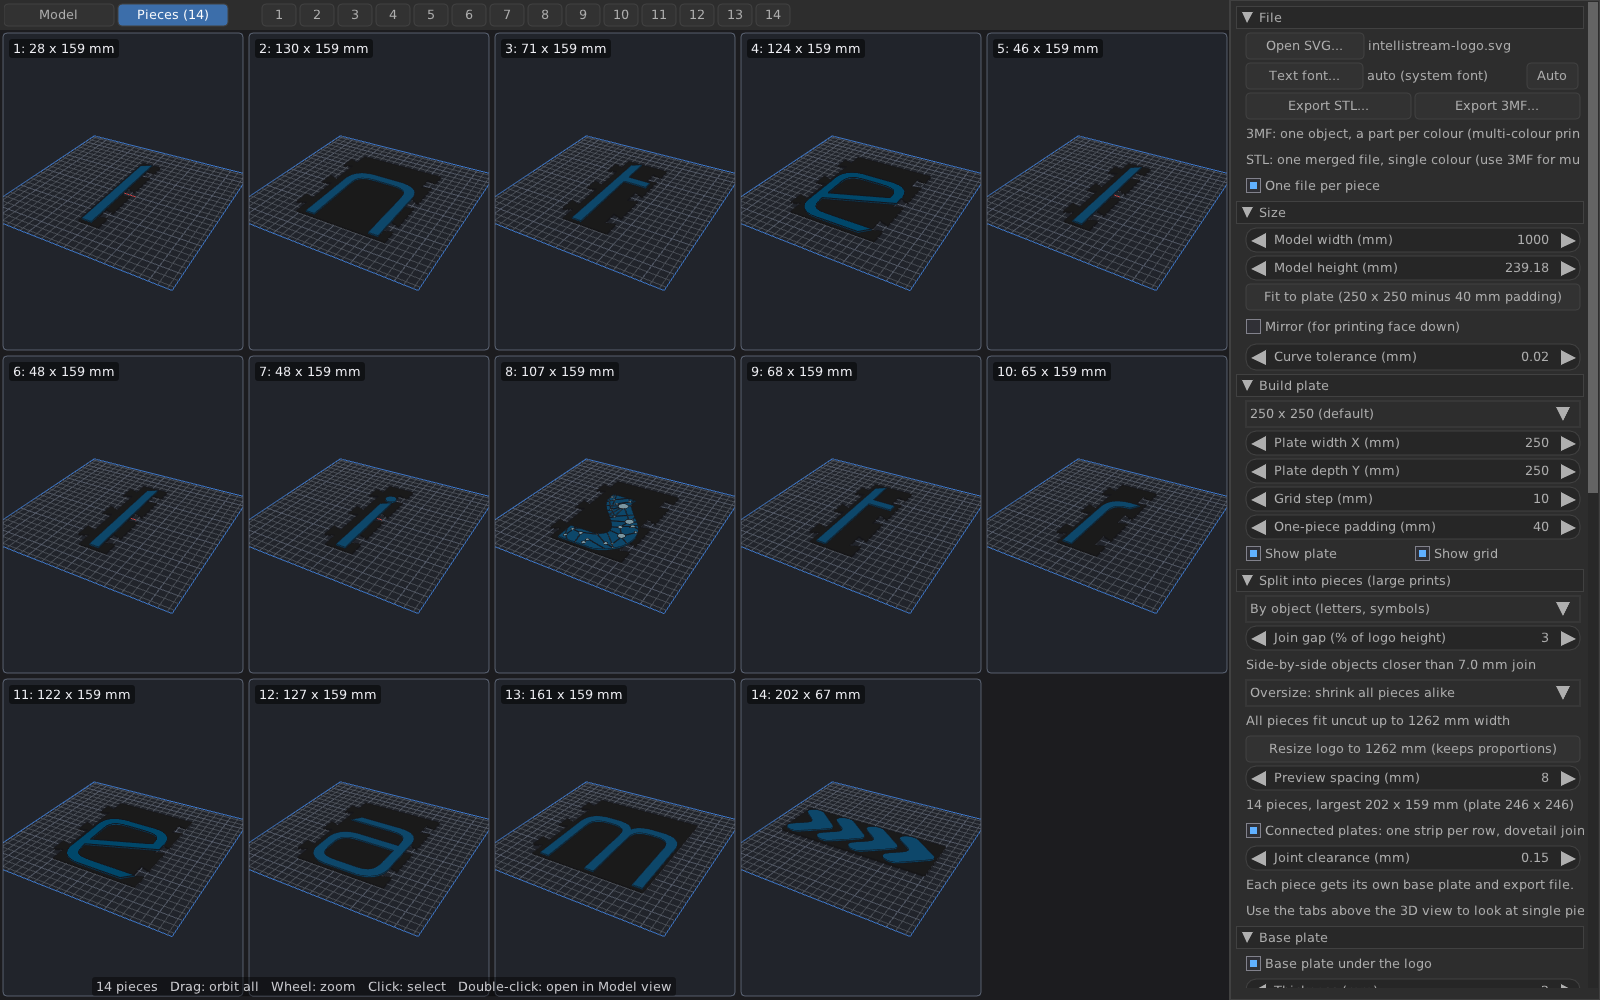
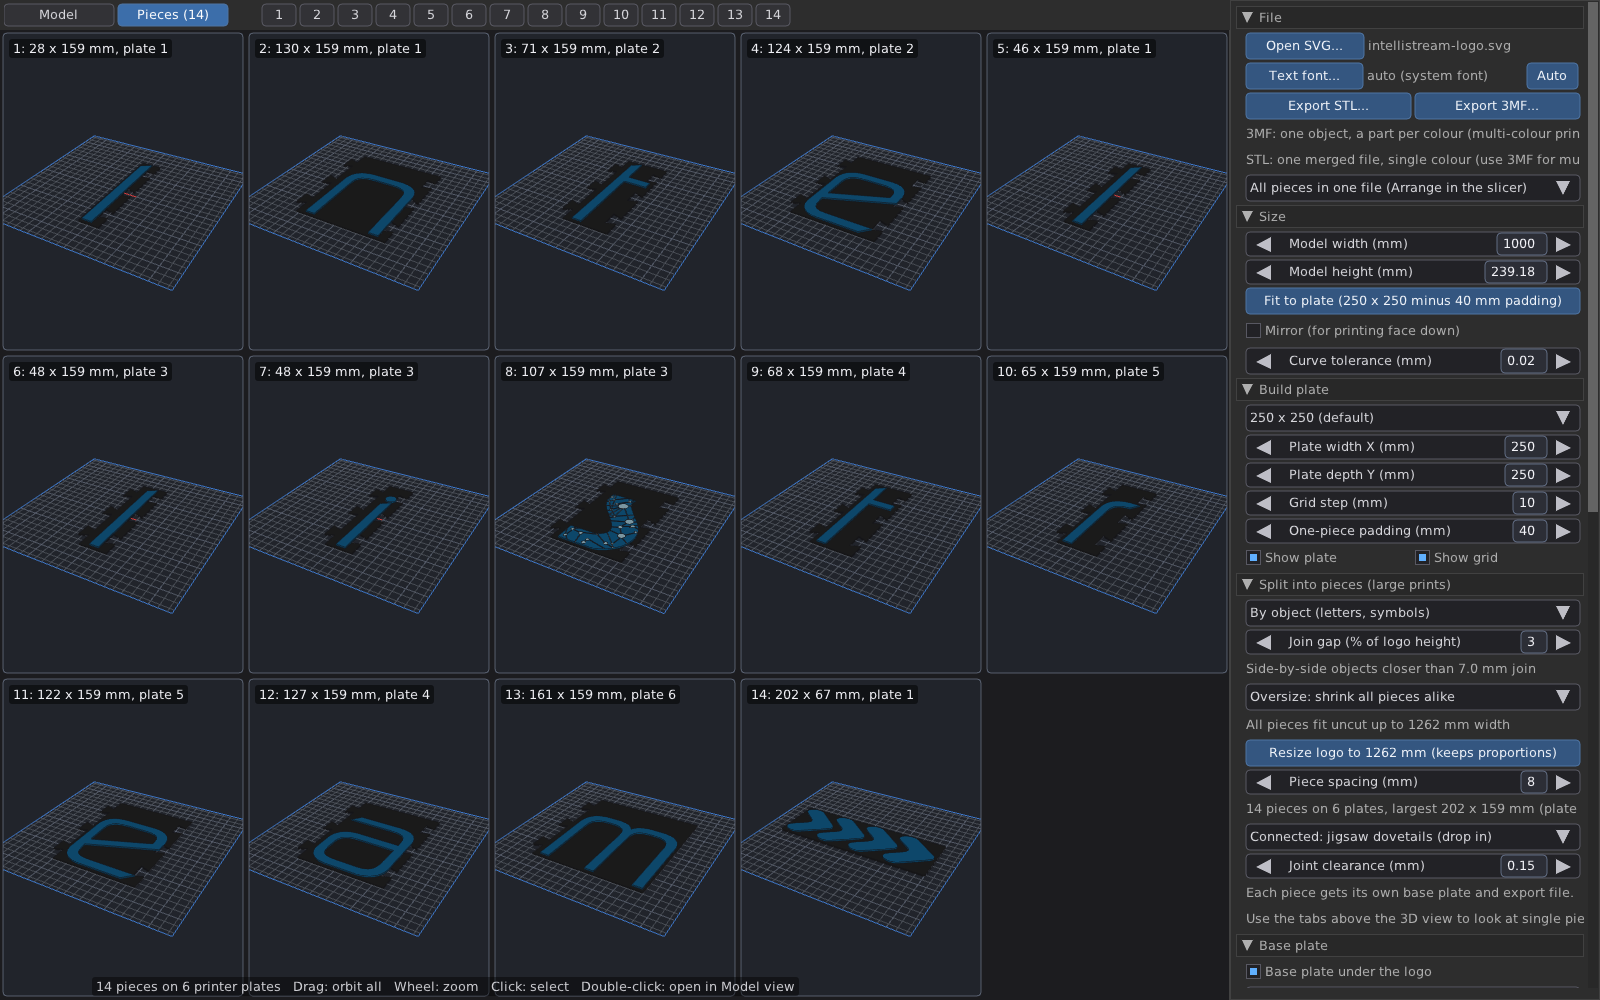
Rename the project to intellistream-svgto3dprint
The executable, CMake project/target, Makefile target, CI artifact
names, release archives, icon asset files, and every user-facing
string (--help banner, window title, 3MF Application metadata, STL
file header, README, test docstrings/output paths) now use the repo's
actual name instead of the old working title logo3dprint. Internal
CMake option names (LOGO3D_X86_FMA etc.) are left as-is since they are
not part of the product's visible identity.

Also refresh the two README screenshots against the current UI (the
new field/button styling, the Bottom camera preset, and the
all-pieces-in-one-file default).

diff --git a/src/gui.c b/src/gui.c
@@ -130,7 +130,7 @@ static void load_file(gui_t *g, const char *path)
         model_changed(g);
         camera_fit(&g->cam, &g->app->model);
         snprintf(g->path_buf, sizeof(g->path_buf), "%s", path);
-        snprintf(title, sizeof(title), "logo3dprint - %s", path);
+        snprintf(title, sizeof(title), "intellistream-svgto3dprint - %s", path);
         SDL_SetWindowTitle(g->win, title);
         if (d->n_text_skipped) set_status(g, "Loaded. %d <text> element(s) skipped: no usable font (choose one under File).", d->n_text_skipped);
         else if (g->app->model.colors_before_merge > g->app->model.nslots)
@@ -1618,7 +1618,7 @@ int gui_main(app_state *a)
     SDL_GL_SetAttribute(SDL_GL_MULTISAMPLESAMPLES, 4);
     {
         int ww = a->win_w > 0 ? a->win_w : 1280, wh = a->win_h > 0 ? a->win_h : 800;
-        g.win = SDL_CreateWindow("logo3dprint", ww, wh, SDL_WINDOW_OPENGL | SDL_WINDOW_RESIZABLE | SDL_WINDOW_HIGH_PIXEL_DENSITY);
+        g.win = SDL_CreateWindow("intellistream-svgto3dprint", ww, wh, SDL_WINDOW_OPENGL | SDL_WINDOW_RESIZABLE | SDL_WINDOW_HIGH_PIXEL_DENSITY);
     }
     if (g.win) g.gl = SDL_GL_CreateContext(g.win);
     if (!g.win || !g.gl) {
@@ -1626,7 +1626,7 @@ int gui_main(app_state *a)
         if (g.win) SDL_DestroyWindow(g.win);
         SDL_GL_SetAttribute(SDL_GL_MULTISAMPLEBUFFERS, 0);
         SDL_GL_SetAttribute(SDL_GL_MULTISAMPLESAMPLES, 0);
-        g.win = SDL_CreateWindow("logo3dprint", a->win_w > 0 ? a->win_w : 1280, a->win_h > 0 ? a->win_h : 800,
+        g.win = SDL_CreateWindow("intellistream-svgto3dprint", a->win_w > 0 ? a->win_w : 1280, a->win_h > 0 ? a->win_h : 800,
                                  SDL_WINDOW_OPENGL | SDL_WINDOW_RESIZABLE | SDL_WINDOW_HIGH_PIXEL_DENSITY);
         g.gl = g.win ? SDL_GL_CreateContext(g.win) : NULL;
         if (!g.win || !g.gl) {
@@ -1685,7 +1685,7 @@ int gui_main(app_state *a)
             g.tab = 1;
             g.last_nchunks = a->model.nchunks;
         }
-        snprintf(title, sizeof(title), "logo3dprint - %s", a->svg_path);
+        snprintf(title, sizeof(title), "intellistream-svgto3dprint - %s", a->svg_path);
         SDL_SetWindowTitle(g.win, title);
     } else if (a->last_error[0]) {
         set_status(&g, "Error: %s", a->last_error);

diff --git a/tools/mkicon.py b/tools/mkicon.py
@@ -1,5 +1,5 @@
 #!/usr/bin/env python3
-"""Regenerate src/icon_data.h from assets/logo3dprint.ico.
+"""Regenerate src/icon_data.h from assets/intellistream-svgto3dprint.ico.
 
 The window icon is compiled into the program (no image library, no file to
 find at run time) as a run-length encoded RGBA stream: records of
@@ -11,7 +11,7 @@ import os, sys
 from PIL import Image
 
 here = os.path.dirname(os.path.abspath(__file__))
-src = os.path.join(here, "..", "assets", "logo3dprint.ico")
+src = os.path.join(here, "..", "assets", "intellistream-svgto3dprint.ico")
 dst = os.path.join(here, "..", "src", "icon_data.h")
 
 im = Image.open(src)
@@ -29,7 +29,7 @@ for p in px:
         runs.append([1, p])
 
 with open(dst, "w") as f:
-    f.write("/* Generated by tools/mkicon.py from assets/logo3dprint.ico; do not edit.\n"
+    f.write("/* Generated by tools/mkicon.py from assets/intellistream-svgto3dprint.ico; do not edit.\n"
             " * Run-length encoded RGBA: [count, r, g, b, a] records, top row first. */\n")
     f.write(f"#define ICON_W {w}\n#define ICON_H {h}\n")
     f.write("static const unsigned char icon_rle[] = {\n")

diff --git a/src/export_3mf.c b/src/export_3mf.c
@@ -92,7 +92,7 @@ static int write_3mf(const export_object *objs, int nobjs, const char *path, cha
     sb_put(&model, "<?xml version=\"1.0\" encoding=\"UTF-8\"?>\n");
     sb_put(&model, "<model unit=\"millimeter\" xml:lang=\"en-US\" xmlns=\"http://schemas.microsoft.com/3dmanufacturing/core/2015/02\""
                    " xmlns:m=\"http://schemas.microsoft.com/3dmanufacturing/material/2015/02\">\n");
-    sb_put(&model, " <metadata name=\"Application\">logo3dprint</metadata>\n");
+    sb_put(&model, " <metadata name=\"Application\">intellistream-svgto3dprint</metadata>\n");
     sb_put(&model, " <metadata name=\"Title\">logo</metadata>\n");
     sb_put(&model, " <resources>\n");
     sb_put(&model, "  <basematerials id=\"1\">\n");

diff --git a/src/export_stl.c b/src/export_stl.c
@@ -104,7 +104,7 @@ static int write_stl_file(const char *path, const export_part *parts, int nparts
         return 0;
     }
     memset(header, 0, sizeof(header));
-    snprintf(header, sizeof(header), "logo3dprint binary STL");
+    snprintf(header, sizeof(header), "intellistream-svgto3dprint binary STL");
     fwrite(header, 1, 80, f);
     for (i = 0; i < nparts; i++) total += (unsigned)export_part_mesh(&parts[i])->nt;
     {

diff --git a/tests/check_stl.py b/tests/check_stl.py
@@ -1,5 +1,5 @@
 #!/usr/bin/env python3
-"""Validate binary STL files written by logo3dprint: the record count matches
+"""Validate binary STL files written by intellistream-svgto3dprint: the record count matches
 the file size and every mesh is closed (each directed edge matched by the
 same number of reversed edges). Exit status is non-zero when a file fails."""
 import sys, struct

diff --git a/tests/check_3mf.py b/tests/check_3mf.py
@@ -1,5 +1,5 @@
 #!/usr/bin/env python3
-"""Validate a 3MF written by logo3dprint: zip layout, XML, per-part triangle
+"""Validate a 3MF written by intellistream-svgto3dprint: zip layout, XML, per-part triangle
 ranges from Metadata/Slic3r_PE_model.config, material references, and that
 every part mesh is closed (each edge used exactly twice, opposite directions).
 

diff --git a/tests/compare_info.py b/tests/compare_info.py
@@ -1,5 +1,5 @@
 #!/usr/bin/env python3
-"""Compare a `logo3dprint --info` output with the recorded expectation.
+"""Compare a `intellistream-svgto3dprint --info` output with the recorded expectation.
 
 Text must match exactly and so must integer counts (paths, shapes, slots,
 pieces). Numbers with a decimal point (sizes, areas, volumes) may differ by

diff --git a/src/cli.c b/src/cli.c
@@ -9,7 +9,7 @@
 static void usage(FILE *f)
 {
     fprintf(f,
-        "usage: logo3dprint [options] [logo.svg]\n"
+        "usage: intellistream-svgto3dprint [options] [logo.svg]\n"
         "\n"
         "Without --export or --info the GUI starts (with the SVG loaded when given).\n"
         "\n"

diff --git a/src/icon_data.h b/src/icon_data.h
@@ -1,4 +1,4 @@
-/* Generated by tools/mkicon.py from assets/logo3dprint.ico; do not edit.
+/* Generated by tools/mkicon.py from assets/intellistream-svgto3dprint.ico; do not edit.
  * Run-length encoded RGBA: [count, r, g, b, a] records, top row first. */
 #define ICON_W 128
 #define ICON_H 128

diff --git a/README.md b/README.md
@@ -1,4 +1,4 @@
-# logo3dprint
+# intellistream-svgto3dprint
 
 Turn an SVG logo into a multi-colour 3D-printable model. Written in C.
 
@@ -36,12 +36,12 @@ Turn an SVG logo into a multi-colour 3D-printable model. Written in C.
 The GUI is built on SDL3 + OpenGL 3.2 and the single-header Nuklear toolkit, so
 it runs on Linux, Windows and macOS.
 
-![logo3dprint GUI showing a multi-colour logo model](docs/screenshot.png)
+![intellistream-svgto3dprint GUI showing a multi-colour logo model](docs/screenshot.png)
 
 The same logo at 1000 mm width, split into 14 letter-sized pieces that each
 get their own base plate and export file:
 
-![logo3dprint pieces view with the logo split into 14 pieces](docs/screenshot-pieces.png)
+![intellistream-svgto3dprint pieces view with the logo split into 14 pieces](docs/screenshot-pieces.png)
 
 ## Building
 
@@ -72,12 +72,12 @@ Then:
 
     cmake -B build -DCMAKE_BUILD_TYPE=Release
     cmake --build build -j
-    ./build/logo3dprint examples/simple.svg
+    ./build/intellistream-svgto3dprint examples/simple.svg
 
 With SDL3 installed system-wide you can also use the plain Makefile:
 
     make -j
-    ./logo3dprint examples/simple.svg
+    ./intellistream-svgto3dprint examples/simple.svg
 
 ### macOS
 
@@ -103,7 +103,7 @@ triangle counts; see `tests/compare_info.py`.
 
 ## Using the GUI
 
-    logo3dprint [logo.svg]
+    intellistream-svgto3dprint [logo.svg]
 
 * **File**: open an SVG (or drop one onto the window), export STL / 3MF.
   With several pieces the default is all pieces in one file: the 3MF holds
@@ -151,7 +151,7 @@ triangle counts; see `tests/compare_info.py`.
   base plate of at least 3 mm (the thickness is raised when you switch them
   on) and are placed clear of the tabs, of the corners where seams meet, and
   of each other; a seam too short for both tabs and a key keeps the tabs.
-  `logo3dprint --export-test fit.3mf --joints keys` writes two small plates
+  `intellistream-svgto3dprint --export-test fit.3mf --joints keys` writes two small plates
   with the current joint and a key, to dial in the clearance on your printer
   with a short print before committing to the real pieces.
 * **Base plate**: thickness, margin, corner radius, colour (own colour or the
@@ -193,19 +193,19 @@ overlap in the print.
 
 ## Command line
 
-    logo3dprint --info logo.svg
-    logo3dprint --export logo.3mf --width 150 --base 2 --margin 3 logo.svg
-    logo3dprint --export logo.stl --per-color --stagger 0.6,0.2 --no-base logo.svg
-    logo3dprint --export big.3mf --width 2000 --split objects --plate 250x250 logo.svg   # big_chunk01.3mf ...
-    logo3dprint --export big.3mf --width 2000 --split objects --fit-plate logo.svg      # resize so nothing is shrunk
-    logo3dprint --export big.3mf --width 2000 --split objects --single-file logo.svg    # all pieces in one file
-    logo3dprint --export big.3mf --width 2000 --split objects --per-plate --spacing 5 logo.svg   # big_plate01.3mf ... pieces arranged
-    logo3dprint --export logo.3mf --no-layered --stagger 0.6,0.2 logo.svg              # colours side by side, staggered heights
-    logo3dprint --export big.3mf --width 2000 --split objects --joints keys logo.svg    # pieces lock with sliding dovetail keys: big_chunk01.3mf ... big_keys.3mf
-    logo3dprint --export big.3mf --width 2000 --split objects --joints keys --single-file logo.svg   # pieces and keys as objects in one 3MF, Arrange in the slicer
-    logo3dprint --export-test fit.3mf --joints keys --joint-clearance 0.1               # two test plates and a key to check the fit
+    intellistream-svgto3dprint --info logo.svg
+    intellistream-svgto3dprint --export logo.3mf --width 150 --base 2 --margin 3 logo.svg
+    intellistream-svgto3dprint --export logo.stl --per-color --stagger 0.6,0.2 --no-base logo.svg
+    intellistream-svgto3dprint --export big.3mf --width 2000 --split objects --plate 250x250 logo.svg   # big_chunk01.3mf ...
+    intellistream-svgto3dprint --export big.3mf --width 2000 --split objects --fit-plate logo.svg      # resize so nothing is shrunk
+    intellistream-svgto3dprint --export big.3mf --width 2000 --split objects --single-file logo.svg    # all pieces in one file
+    intellistream-svgto3dprint --export big.3mf --width 2000 --split objects --per-plate --spacing 5 logo.svg   # big_plate01.3mf ... pieces arranged
+    intellistream-svgto3dprint --export logo.3mf --no-layered --stagger 0.6,0.2 logo.svg              # colours side by side, staggered heights
+    intellistream-svgto3dprint --export big.3mf --width 2000 --split objects --joints keys logo.svg    # pieces lock with sliding dovetail keys: big_chunk01.3mf ... big_keys.3mf
+    intellistream-svgto3dprint --export big.3mf --width 2000 --split objects --joints keys --single-file logo.svg   # pieces and keys as objects in one 3MF, Arrange in the slicer
+    intellistream-svgto3dprint --export-test fit.3mf --joints keys --joint-clearance 0.1               # two test plates and a key to check the fit
 
-`logo3dprint --help` lists every option (sizes, per-slot heights, colour merge
+`intellistream-svgto3dprint --help` lists every option (sizes, per-slot heights, colour merge
 threshold, material limit, base plate colour, mirroring).
 
 ## Slicer notes
@@ -259,7 +259,7 @@ threshold, material limit, base plate colour, mirroring).
 
 ## Windows and macOS builds
 
-The window icon is compiled in from `assets/logo3dprint.ico` (regenerate
+The window icon is compiled in from `assets/intellistream-svgto3dprint.ico` (regenerate
 `src/icon_data.h` with `tools/mkicon.py` after changing it); on Windows the
 same file becomes the executable's icon.
 
@@ -282,9 +282,9 @@ SDL3 for Windows:
 
     cmake -B build-win -DCMAKE_TOOLCHAIN_FILE=cmake/mingw-w64.cmake -DCMAKE_BUILD_TYPE=Release
     cmake --build build-win -j
-    file build-win/logo3dprint.exe   # PE32+ executable (console) x86-64, for MS Windows
+    file build-win/intellistream-svgto3dprint.exe   # PE32+ executable (console) x86-64, for MS Windows
 
-`build-win/logo3dprint.exe` runs under Wine or on real Windows; the tests
+`build-win/intellistream-svgto3dprint.exe` runs under Wine or on real Windows; the tests
 (`tests/run_tests.sh`) need a Windows host or Wine to run, since ctest
 invokes the freshly built executable directly.
 
@@ -327,7 +327,7 @@ Three layers:
 The recordings pin the current geometry down. After a deliberate change in
 what the program produces, re-record them and review the diff:
 
-    UPDATE=1 sh tests/run_tests.sh ./logo3dprint
+    UPDATE=1 sh tests/run_tests.sh ./intellistream-svgto3dprint
 
 ## Licence
 
